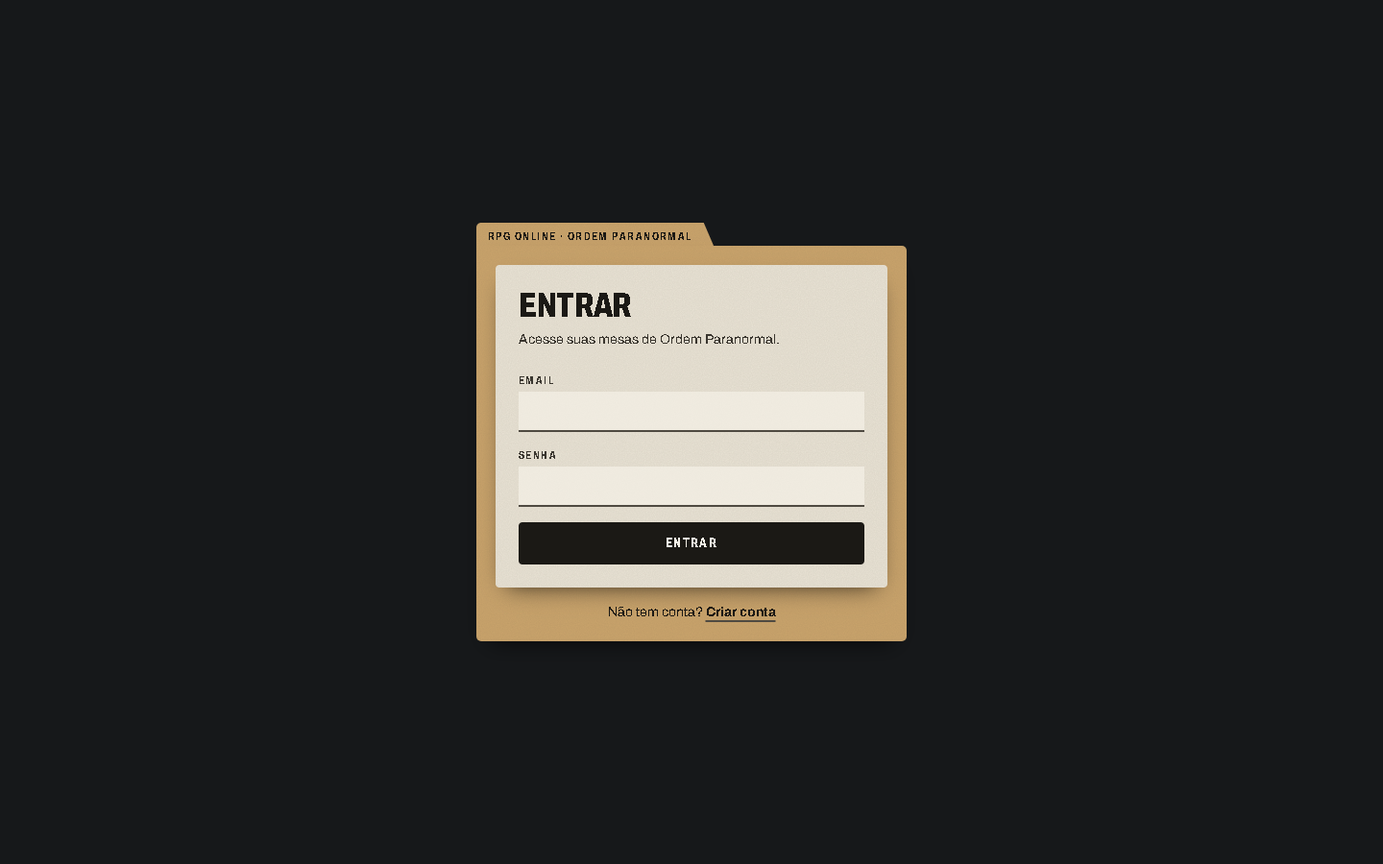
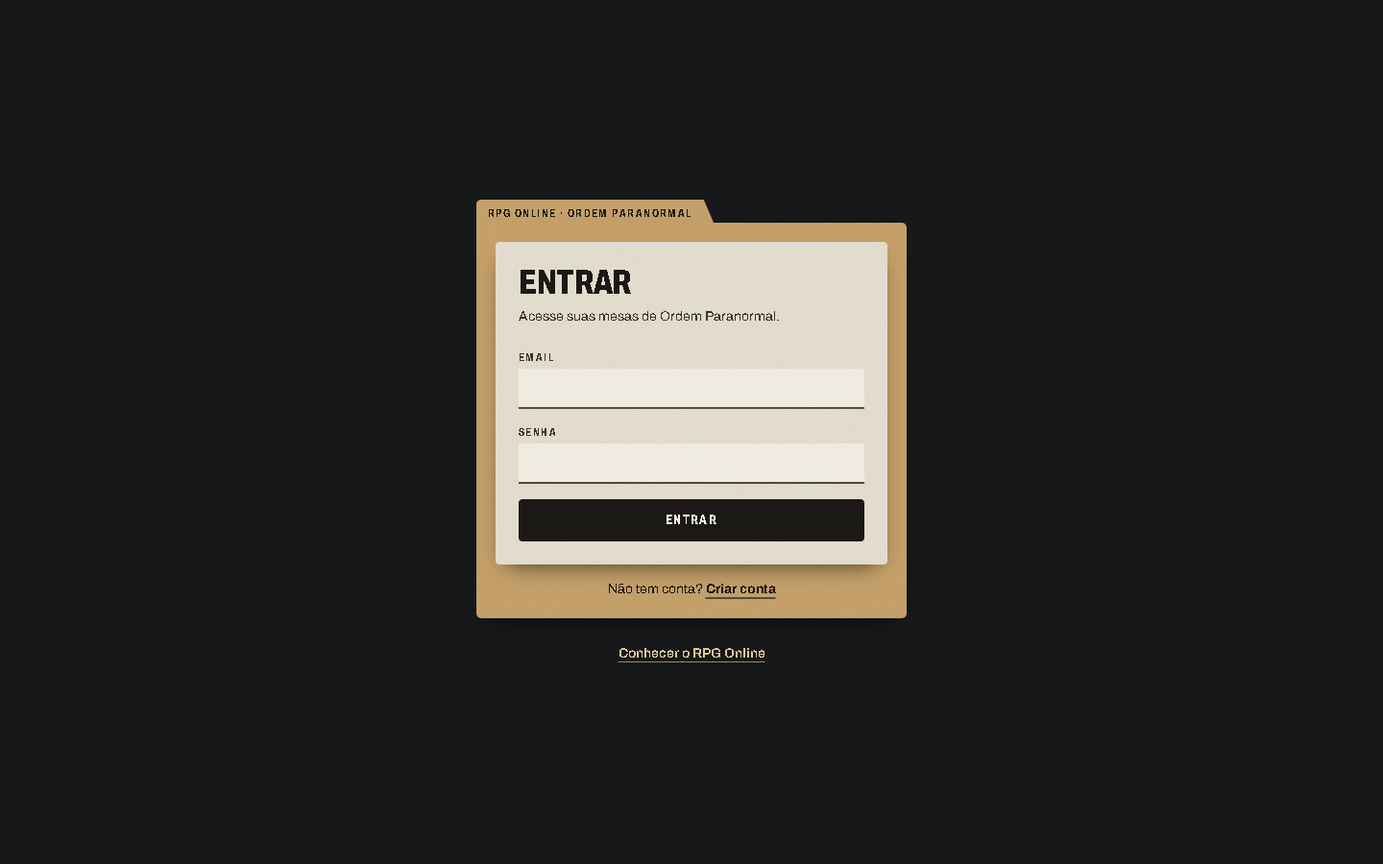
docs: Licença da Comunidade de OP, DESIGN.md atualizado e capturas sem nomes do cânone

diff --git a/DESIGN.md b/DESIGN.md
@@ -1,6 +1,6 @@
 ---
 name: RPG Online
-description: Mesa de RPG online para Ordem Paranormal; telas de entrada no mundo "Dossiê de caso".
+description: Mesa de RPG online para Ordem Paranormal; telas de entrada, casca da mesa e apresentação no mundo "Dossiê de caso".
 colors:
   arquivo-950: "#0e0f10"
   arquivo-900: "#16181a"
@@ -28,7 +28,15 @@ colors:
   carimbo-600: "#c2352b"
   carimbo-300: "#ec8a80"
   carimbo-100: "#f6dcd6"
+  sinal-vivo: "#6fae7c"
 typography:
+  display-capa:
+    fontFamily: "Archivo, ui-sans-serif, system-ui, sans-serif"
+    fontSize: "6rem"
+    fontWeight: 800
+    lineHeight: 0.9
+    letterSpacing: "-0.01em"
+    fontVariation: "'wdth' 72"
   display:
     fontFamily: "Archivo, ui-sans-serif, system-ui, sans-serif"
     fontSize: "3rem"
@@ -77,6 +85,8 @@ spacing:
   folha-interno-sm: "24px"
   campo: "8px"
   secao: "48px"
+  trilho-lateral: "72px"
+  painel-direito: "380px"
 components:
   button-tinta:
     backgroundColor: "{colors.tinta-900}"
@@ -93,6 +103,15 @@ components:
     rounded: "{rounded.folha}"
     padding: "0 20px"
     height: "44px"
+  button-kraft:
+    backgroundColor: "{colors.kraft-400}"
+    textColor: "{colors.tinta-900}"
+    typography: "{typography.label}"
+    rounded: "{rounded.folha}"
+    padding: "0 16px"
+    height: "40px"
+  button-kraft-hover:
+    backgroundColor: "{colors.kraft-300}"
   button-arquivo:
     textColor: "{colors.grafite-100}"
     typography: "{typography.label}"
@@ -101,6 +120,21 @@ components:
     height: "40px"
   button-arquivo-hover:
     textColor: "{colors.kraft-300}"
+  button-icone-arquivo:
+    textColor: "{colors.grafite-100}"
+    rounded: "{rounded.folha}"
+    size: "40px"
+  aba-pasta:
+    textColor: "{colors.grafite-300}"
+    typography: "{typography.label}"
+    padding: "0 16px"
+    height: "36px"
+  aba-pasta-ativa:
+    backgroundColor: "{colors.kraft-500}"
+    textColor: "{colors.tinta-900}"
+    typography: "{typography.label}"
+    padding: "0 16px"
+    height: "36px"
   campo-folha:
     backgroundColor: "{colors.papel-50}"
     textColor: "{colors.tinta-900}"
@@ -123,11 +157,42 @@ components:
     typography: "{typography.title}"
     rounded: "{rounded.etiqueta}"
     padding: "10px 12px"
+  folha-de-pasta:
+    backgroundColor: "{colors.papel-200}"
+    textColor: "{colors.tinta-900}"
+    typography: "{typography.label}"
+    rounded: "{rounded.carimbo}"
+    padding: "0 12px"
+    height: "48px"
+    width: "208px"
+  folha-de-pasta-ativa:
+    backgroundColor: "{colors.papel-50}"
   carimbo:
     textColor: "{colors.carimbo-900}"
     typography: "{typography.label}"
     rounded: "{rounded.carimbo}"
     padding: "2px 8px"
+  carimbo-escuro:
+    textColor: "{colors.carimbo-300}"
+    typography: "{typography.label}"
+    rounded: "{rounded.carimbo}"
+    padding: "2px 8px"
+  etiqueta-turno:
+    backgroundColor: "{colors.papel-50}"
+    textColor: "{colors.tinta-900}"
+    rounded: "{rounded.etiqueta}"
+    padding: "6px 12px"
+  foto-participante:
+    backgroundColor: "{colors.arquivo-800}"
+    textColor: "{colors.grafite-100}"
+    rounded: "{rounded.etiqueta}"
+    width: "128px"
+    height: "72px"
+  tag-mestre:
+    backgroundColor: "{colors.kraft-500}"
+    textColor: "{colors.tinta-900}"
+    typography: "{typography.label}"
+    padding: "0 6px"
   placa-gaveta:
     backgroundColor: "{colors.papel-100}"
     textColor: "{colors.tinta-900}"
@@ -138,7 +203,7 @@ components:
 
 # Design System: RPG Online
 
-> **Escopo atual.** O mundo "Dossiê de caso" vale hoje **só nas telas de entrada**: login, cadastro, lista de mesas, convite, 404 e a checagem de sessão (`RotaProtegida`/`RotaPublica`). **A tela de mesa (`/salas/:id`) ainda não migrou**: `pages/Sala` e os componentes de `MapaToken`, `Video`, `TurnoTracker`, `FichaOrdemParanormal` e `Chat` continuam no visual antigo zinc/violeta do Tailwind (`ui/estilos.ts`), que **não** é o sistema e não deve ser copiado para telas novas. A migração da mesa é uma etapa posterior; até lá, o `body` global continua em zinc e cada tela do arquivo se envolve em `.mundo-arquivo`.
+> **Escopo atual.** O mundo "Dossiê de caso" vale em três frentes: (1) as **telas de entrada** — login, cadastro, lista de mesas, convite, 404 e a checagem de sessão (`RotaProtegida`/`RotaPublica`); (2) a **casca da mesa** em `/salas/:id` — header, régua inferior (fotos de vídeo + turno), trilho esquerdo do mestre e moldura do painel direito com abas de pasta, modal de iniciar combate, folha de rolagem, folha do convite e o diálogo de confirmação; (3) a **apresentação pública** (`/` para visitantes, `/sobre`). **Ainda não migrou** e continua no visual antigo zinc/violeta (`ui/estilos.ts`), que **não** é o sistema e não deve ser copiado: o conteúdo da ficha dentro do painel (`components/FichaOrdemParanormal`), a área do mapa e sua toolbar (`components/MapaToken`, incluindo `GerenciarMapas`) e o chat (`components/Chat`). O `body` global continua em zinc; cada tela do mundo se envolve em `.mundo-arquivo`.
 
 ## Overview
 
@@ -146,41 +211,45 @@ components:
 
 Cada mesa é um caso aberto num arquivo de investigação. A interface é um móvel de arquivo escuro, quase preto, onde as mesas são pastas kraft suspensas, com aba de classificação e etiqueta de papel; o que se preenche fica numa folha de papel por cima. A ação é tinta; o estado é carimbo. O mundo recusa o painel de SaaS (grade de cards cinza com botão colorido): nada aqui é "tile", tudo é um objeto de papelaria com material, fibra e peso.
 
-A densidade é baixa e a hierarquia é tipográfica: títulos grandes em Archivo condensado e caixa alta, etiquetas espaçadas, e o que é registro (valores digitados, datas) sai datilografado em Courier Prime. O material aparece por uma fibra de ruído muito fraca no papel e no kraft e por sombras difusas sob as pastas e folhas, nunca por brilho, gradiente ou vidro.
+Na mesa, o móvel continua: o header é a borda da gaveta com o nome da mesa numa etiqueta de papel; a régua inferior junta as fotos impressas dos participantes e a etiqueta de quem tem a vez; as laterais são pastas em pé das quais as folhas deslizam; modais e popovers são folhas de papel postas sobre o arquivo. Na apresentação, a prova é a própria mesa: capturas reais montadas em folhas como recortes de dossiê, cada uma com o carimbo da etapa.
 
-É uma ferramenta de fã sem vínculo oficial: o mundo evoca o arquivo de investigação sem usar nenhum sigilo, símbolo, logo ou arte da Ordem Paranormal oficial.
+A densidade é baixa e a hierarquia é tipográfica: títulos grandes em Archivo condensado e caixa alta, etiquetas espaçadas, e o que é registro (valores digitados, datas, iniciativa) sai datilografado em Courier Prime. O material aparece por uma fibra de ruído muito fraca no papel e no kraft e por sombras difusas sob as peças, nunca por brilho ou vidro. É uma ferramenta de fã sem vínculo oficial: o mundo evoca o arquivo de investigação sem nenhum sigilo, símbolo, logo ou arte da Ordem Paranormal oficial.
 
 **Key Characteristics:**
 - Fundo de arquivo escuro, pastas kraft, folhas de papel, tinta quase preta e vermelho de carimbo.
 - Archivo com eixo de largura: condensado (72%) em títulos, rótulos, botões e abas.
-- Courier Prime só no que é datilografado: valores digitados e datas.
-- Vermelho de carimbo só para estado, nunca para ação.
-- Movimento único: a pasta sobe um pouco da gaveta no hover/foco.
+- Courier Prime só no que é datilografado: valores digitados, datas e números de registro.
+- Vermelho de carimbo só para estado e classificação, nunca para ação.
+- Ação principal: tinta chapada numa folha, kraft chapado sobre o arquivo escuro.
+- Movimento de papelaria: a pasta sobe da gaveta e a folha desliza da pasta, os dois desligados com `prefers-reduced-motion`.
 
 ## Colors
 
-Uma paleta de papelaria sobre metal escuro: neutros quentes de papel e kraft, uma tinta quase preta que faz o papel da cor primária, e um único vermelho reservado para estado.
+Uma paleta de papelaria sobre metal escuro: neutros quentes de papel e kraft, uma tinta quase preta que faz o papel da cor primária, um único vermelho reservado para estado e uma só luz verde de equipamento.
 
 ### Primary
-- **Tinta de Escritório** (tinta-900): a cor da ação. Preenchimento do botão principal numa folha, contorno do secundário, texto sobre papel e kraft, linha de preenchimento focada, cursor de texto, seta do select. Tons de apoio: **Tinta Gasta** (tinta-700) no hover do botão, em rótulos e textos de ajuda; **Tinta Rala** (tinta-600) na linha do campo em repouso e nos placeholders.
+- **Tinta de Escritório** (tinta-900): a cor da ação numa folha. Preenchimento do botão principal, contorno do secundário, texto sobre papel e kraft, linha de preenchimento focada, cursor de texto, seta do select, marca do checkbox. Tons de apoio: **Tinta Gasta** (tinta-700) no hover do botão, em rótulos e textos de ajuda; **Tinta Rala** (tinta-600) na linha do campo em repouso e nos placeholders.
 
 ### Secondary
-- **Kraft de Pasta** (kraft-500): o corpo e a aba das pastas das mesas e da pasta aberta do login. Não é cor de ação: é material. **Kraft Claro** (kraft-300/400) é o destaque sobre o arquivo escuro: links, hover do botão do arquivo, anel de foco das pastas, seleção de texto. **Kraft Queimado** (kraft-700) desenha o contorno tracejado da pasta vazia; kraft-600 é o sublinhado dos links.
+- **Kraft de Pasta** (kraft-500): o corpo e a aba das pastas, a aba de pasta ativa do painel e a tag "Mestre" nas fotos. É material. **Kraft Claro** (kraft-300/400) é o destaque sobre o arquivo escuro: fundo do botão kraft (a ação principal no escuro), links, hover do botão do arquivo, anel de foco, seleção de texto. **Kraft Queimado** (kraft-700) desenha a pasta vazia tracejada, a borda dos itens da fila de iniciativa e a faixa de aviso de largura mínima da mesa; kraft-600 é o sublinhado dos links e o corpo da pasta em pé nas laterais.
 
 ### Tertiary
-- **Tinta de Carimbo** (carimbo-900): o carimbo de estado (papel na mesa, "Sem acesso", "Não arquivado"), com borda dupla e falhas de entintamento. Sobre kraft dá cerca de 4,9:1; sobre papel, cerca de 8,9:1. **Carimbo Vivo** (carimbo-800) é o texto e a borda do alerta de erro numa folha, sobre **Rosa de Borrão** (carimbo-100). No arquivo escuro, o alerta usa carimbo-800 translúcido com texto carimbo-100 e borda carimbo-300. carimbo-600 existe na escala mas não é usado como texto.
+- **Tinta de Carimbo** (carimbo-900): o carimbo sobre papel e kraft (papel na mesa, "Sua vez", "Sem acesso", "Não arquivado", o carimbo de etapa da apresentação), com borda dupla e falhas de entintamento. **Carimbo Desbotado** (carimbo-300) é o carimbo e o texto de erro sobre o arquivo escuro, onde a tinta escura sumiria. **Carimbo Vivo** (carimbo-800) é o texto e a borda do alerta numa folha, sobre **Rosa de Borrão** (carimbo-100); no escuro, o alerta e o aviso de sessão reiniciada usam carimbo-800 translúcido com texto carimbo-100. carimbo-600 existe na escala mas não é usado.
+- **Luz de Sinal** (sinal-vivo): só o ponto de conexão "Ao vivo" no header. É a única cor fora da papelaria: luz de equipamento, não tinta.
 
 ### Neutral
-- **Gaveta de Arquivo** (arquivo-900): o fundo de todas as telas do mundo. arquivo-950 no header translúcido; arquivo-700 nos divisores; arquivo-600 na placa de metal, na borda do botão do arquivo e na barra de rolagem. arquivo-850/800 ficam na escala para superfícies intermediárias.
-- **Grafite Claro** (grafite-100): texto principal sobre o arquivo escuro. **Grafite Médio** (grafite-300) para texto secundário (nome do usuário, contagem de mesas, carregando). grafite-400 fica para texto terciário.
-- **Papel de Folha** (papel-100): as folhas de formulário e a placa da gaveta. **Papel Novo** (papel-50) nas etiquetas das pastas, no fundo do campo (70% em repouso, cheio no foco) e no texto do botão de tinta. papel-200/300 ficam na escala.
+- **Gaveta de Arquivo** (arquivo-900): o fundo de todas as telas do mundo e dos trilhos laterais da mesa. **Gaveta Funda** (arquivo-950) no header e na régua da mesa, no header e nas faixas da apresentação e no véu dos diálogos. arquivo-850 no painel direito e na faixa do aviso de câmera; arquivo-800 no fundo das fotos sem vídeo e no hover das abas; arquivo-700 nos divisores; arquivo-600 na placa, na borda dos botões do arquivo e na barra de rolagem.
+- **Grafite Claro** (grafite-100): texto principal sobre o arquivo escuro. **Grafite Médio** (grafite-300) para texto secundário e abas inativas. grafite-400 para o ponto "Conectando..." e texto terciário.
+- **Papel de Folha** (papel-100): as folhas, a placa e a borda das fotos impressas. **Papel Novo** (papel-50) nas etiquetas (pasta, nome da mesa no header, etiqueta do turno), na folha ativa da pasta em pé e no fundo do campo. **Papel Envelhecido** (papel-200) nas folhas em repouso da pasta em pé; papel-300 nos divisores dentro de uma folha.
 
 ### Named Rules
-**The Carimbo é Estado Rule.** O vermelho de carimbo marca só estado: o papel da pessoa numa mesa, erro, acesso negado. Nunca pinta botão, link, cursor, foco ou qualquer ação.
+**The Carimbo é Estado Rule.** O vermelho de carimbo marca só estado ou classificação de arquivo: o papel da pessoa, a vez no turno, erro, acesso negado, a etapa de um recorte. Nunca pinta botão, link, cursor, foco ou qualquer ação.
 
-**The Tinta Age Rule.** Numa folha, quem age é a tinta: ação principal em tinta chapada (tinta-900), secundária em contorno de tinta. Sobre o arquivo escuro, a ação é borda grafite que esquenta para kraft no hover.
+**The Tinta Age Rule.** Numa folha, quem age é a tinta: ação principal em tinta chapada, secundária em contorno de tinta. Sobre o arquivo escuro, a ação principal é kraft chapado com texto em tinta (uma por área) e as demais são borda grafite que esquenta para kraft no hover.
 
-**The Carimbo Legível Rule.** Carimbo usa sempre carimbo-900 (≥ 4,5:1 sobre kraft e papel). Os tons mais claros da escala não servem de texto de carimbo.
+**The Carimbo Legível Rule.** Sobre papel e kraft o carimbo usa carimbo-900 (≥ 4,5:1); sobre o arquivo escuro, carimbo-300 (≈ 7:1 sobre arquivo-900). Nenhum outro tom da escala serve de texto de carimbo.
+
+**The Luz de Equipamento Rule.** sinal-vivo é o único verde e só acende no indicador de conexão. Não vira cor de sucesso, botão ou destaque.
 
 ## Typography
 
@@ -191,92 +260,124 @@ Uma paleta de papelaria sobre metal escuro: neutros quentes de papel e kraft, um
 **Character:** Archivo condensado dá a voz de etiqueta e cabeçalho de dossiê, apertada e em caixa alta; Courier Prime é a máquina de escrever que preenche o formulário. Os números são tabulares em todo o mundo (`font-variant-numeric: tabular-nums`).
 
 ### Hierarchy
-- **Display** (800, 3rem → 3.75rem a partir de 640px, line-height 1, tracking -0.01em, caixa alta, condensado): o título da tela ("Suas mesas").
-- **Headline** (800, 1.875rem, line-height 1, caixa alta, condensado): título de folha ("Criar mesa", "Entrar com convite", 404, convite). O título do login/cadastro sobe para 2.25rem.
-- **Title** (700, 1.25rem, line-height 1.25, condensado): o nome da mesa na etiqueta da pasta; quebra palavra em nomes longos (~60 caracteres).
-- **Body** (400, 0.875rem): subtítulos, ajuda de campo (0.75rem), contagem, texto de estado vazio.
-- **Label** (700, 0.75rem, tracking 0.12em, caixa alta, condensado): rótulos de campo e abas de pasta. Botões usam o mesmo desenho em 0.875rem e tracking 0.1em; a placa da gaveta, 0.875rem com tracking 0.16em.
-- **Datilo** (Courier Prime 400, 1rem nos campos, 0.875rem nas datas): o valor digitado em campo e select escolhido, e a linha de registro da pasta ("Aberta em 28/09/2026").
+- **Display Capa** (800, 3.75rem → 6rem a partir de 640px, line-height 0.9, caixa alta, condensado): só o título da capa da apresentação.
+- **Display** (800, 3rem → 3.75rem a partir de 640px, line-height 1, caixa alta, condensado): título de tela ("Suas mesas") e títulos de seção da apresentação (2.25rem → 3.75rem).
+- **Headline** (800, 1.875rem, line-height 1, caixa alta, condensado): título de folha ("Criar mesa", "Iniciar combate", 404, convite); 1.5rem no diálogo de confirmação, 2.25rem no login/cadastro.
+- **Title** (700–800, 1.25rem, line-height 1.25, condensado): nome da mesa na etiqueta da pasta e no header (1.125rem), nome de quem tem a vez na etiqueta do turno.
+- **Body** (400, 0.875rem): subtítulos, ajuda de campo (0.75rem), estados vazios. Na apresentação, texto corrido em 1rem–1.125rem com entrelinha folgada (1.625) e medida de até 65ch.
+- **Label** (700, 0.75rem, tracking 0.12em, caixa alta, condensado): rótulos de campo, abas, folhas da pasta em pé (0.875rem), "Rodada N · vez de". Botões usam o mesmo desenho em 0.875rem e tracking 0.1em; a placa, 0.875rem com tracking 0.16em.
+- **Datilo** (Courier Prime 400, 1rem nos campos, 0.875rem nas datas, 0.75rem na iniciativa): valor digitado, select escolhido, data de registro e o número de iniciativa.
 
 ### Named Rules
-**The Datilografado Rule.** Courier Prime só no que é datilografado: valores que a pessoa digitou e datas de registro. Instrução, rótulo, placeholder, select sem escolha e mensagem vão em Archivo.
+**The Datilografado Rule.** Courier Prime só no que é datilografado: valores que a pessoa digitou e números de registro (datas, iniciativa). Instrução, rótulo, placeholder, select sem escolha e mensagem vão em Archivo.
 
 **The Condensado Rule.** Largura 72% é para títulos, rótulos, botões, abas e etiquetas. Texto corrido fica em largura normal.
 
 ## Layout
 
-Mobile-first nas telas de entrada; 375px sem rolagem horizontal. Conteúdo em coluna central de até 64rem (lista) ou 28rem (login, cadastro, convite, 404), com respiro lateral de 16px. Header da lista em faixa fina: placa da gaveta à esquerda, nome e Sair à direita.
+**Telas de entrada:** mobile-first, 375px sem rolagem horizontal. Coluna central de até 64rem (lista) ou 28rem (login, cadastro, convite, 404), respiro lateral de 16px. As pastas formam uma grade de 1 coluna, 2 a partir de 640px e 3 a partir de 1024px, com 20px entre colunas e 32px entre linhas; abaixo, as duas folhas de formulário lado a lado a partir de 768px. Seções a 48px; dentro das peças, pasta 16px, folha 20px (24px a partir de 640px), campos a 16px. Telas de passagem são uma pasta aberta centralizada com a folha por cima.
 
-As pastas das mesas formam uma grade de 1 coluna no celular, 2 a partir de 640px e 3 a partir de 1024px, com 20px entre colunas e 32px entre linhas (a aba precisa de ar). Abaixo, as duas folhas de formulário ficam lado a lado a partir de 768px, alinhadas pelo topo. Seções separadas por 48px; título da tela a 32px das pastas. Dentro das peças: pasta com 16px, folha com 20px (24px a partir de 640px), campos empilhados a 16px.
+**Casca da mesa:** desktop-first, largura mínima de 1280px; abaixo de 1280px aparece uma faixa kraft-700 avisando e a mesa rola para o lado. Header de 56px; abaixo, da esquerda para a direita: o trilho do mestre (72px, só quando há mais de uma vista), a coluna central (mapa em cima, régua de 96px embaixo) e o painel direito de 380px — ou, recolhido, um trilho de 72px com as folhas Ficha e Chat. A régua divide-se em fotos à esquerda (até 45% da largura, 30% em combate, rolando para o lado) e turno à direita. Avisos (sessão reiniciada, câmera) entram como faixas finas entre o mapa e a régua.
 
-Telas de passagem (login, cadastro, convite, 404, checagem de sessão) são uma pasta aberta centralizada vertical e horizontalmente, com a folha por cima.
+**Apresentação:** coluna de até 72rem com respiro de 16px e header fixo. Capa com ao menos 92% da altura da tela, texto ancorado à esquerda em até 36rem. As etapas alternam texto (5 colunas) e recorte (7 colunas; 4 para capturas estreitas) numa grade de 12 a partir de 768px, com 96–128px entre etapas. Seções com 80–112px de respiro vertical; título de seção a 48px do conteúdo.
 
 ## Elevation & Depth
 
-Profundidade por material e sombra difusa, sem brilho. Pastas e folhas pousam sobre o arquivo com sombras largas, negativas no espalhamento e escuras, como papel sobre metal; a etiqueta da pasta tem uma sombra de contato mínima. A fibra (ruído SVG a ~9% de opacidade) no papel, no kraft e na placa é o que impede o material de parecer plástico. A placa da gaveta é uma moldura plana de metal, sem bisel.
+Profundidade por material e sombra difusa, sem brilho. Pastas, folhas e fotos pousam sobre o arquivo com sombras largas, negativas no espalhamento e escuras, como papel sobre metal; etiquetas têm sombra de contato mínima. A fibra (ruído SVG a ~9% de opacidade) no papel, no kraft e na placa impede o material de parecer plástico. A placa é uma moldura plana de metal, sem bisel. Diálogos são folhas sobre um véu de arquivo-950 a 75%. Gradiente só aparece como função: o véu de legibilidade sobre a foto da capa e a máscara que esvai a fila de iniciativa quando ela transborda.
 
 ### Shadow Vocabulary
 - **Pasta pousada** (`box-shadow: 0 12px 24px -14px rgb(0 0 0 / 0.9)`): corpo da pasta kraft.
-- **Folha pousada** (`box-shadow: 0 10px 24px -12px rgb(0 0 0 / 0.8)`): folhas de formulário.
-- **Etiqueta colada** (`box-shadow: 0 1px 2px rgb(0 0 0 / 0.25)`): etiqueta de papel com o nome da mesa.
+- **Folha pousada** (`box-shadow: 0 10px 24px -12px rgb(0 0 0 / 0.8)`): folhas, diálogos e popovers.
+- **Foto impressa** (`box-shadow: 0 6px 12px -8px rgb(0 0 0 / 0.9)`): fotos dos participantes na régua.
+- **Folha saindo** (`box-shadow: 0 4px 10px -6px rgb(0 0 0 / 0.9)`): folhas da pasta em pé e o remendo de papel do carimbo de etapa.
+- **Pasta em pé** (`box-shadow: 0 0 14px -2px rgb(0 0 0 / 0.8)`): corpo kraft-600 das laterais da mesa, que fica na frente das folhas.
+- **Etiqueta colada** (`box-shadow: 0 1px 2px rgb(0 0 0 / 0.25)`): etiquetas de papel (pasta, turno).
 
 ### Named Rules
-**The Gaveta Rule.** O único movimento do mundo é a pasta subir 4px da gaveta no hover e no foco (180ms, `cubic-bezier(0.16, 1, 0.3, 1)`). Com `prefers-reduced-motion`, a pasta não se desloca.
+**The Gaveta Rule.** O movimento do mundo é de papelaria e curto: a pasta sobe 4px da gaveta no hover e no foco (180ms), e a folha da pasta em pé desliza 136px para fora no hover e no foco (200ms), as duas com `cubic-bezier(0.16, 1, 0.3, 1)`. A folha ativa fica 8px para fora em repouso. Com `prefers-reduced-motion`, nada se desloca com transição. Fora disso, só o ponto de conexão pulsa enquanto reconecta (sinal de estado, também desligado com menos movimento).
 
 ## Shapes
 
-Cantos quase retos, de papelaria: campo sem raio nenhum (é uma linha de preenchimento), etiqueta 2px, carimbo e placa 3px, folha e botão 4px, pasta 5px. A silhueta que define o mundo é a **aba da pasta suspensa**: uma lingueta no topo esquerdo, com o ombro direito cortado em diagonal de 12px, colada ao corpo da pasta, que por isso não tem raio no canto superior esquerdo. O carimbo é a única peça torta (−4°), com borda dupla de 3px e máscara de ruído que simula falha de tinta. Sem pílulas, sem círculos, sem cantos generosos.
+Cantos quase retos, de papelaria: campo sem raio (é uma linha de preenchimento), etiqueta e foto 2px, carimbo, placa e folha da pasta em pé 3px, folha e botão 4px, pasta 5px. A silhueta que define o mundo é a **aba da pasta suspensa**: uma lingueta no topo esquerdo, com o ombro direito cortado em diagonal de 12px, colada ao corpo, que por isso não tem raio no canto superior esquerdo. As abas do painel são a mesma aba em fileira (topo com 5px), apoiadas numa linha kraft de 2px. As fotos dos participantes têm borda de papel de 3px, como uma foto impressa. O carimbo é a única peça torta (−4°), com borda dupla de 3px e máscara de falha de tinta. Sem pílulas e sem cantos generosos; o único círculo é o ponto de conexão (8px), que é uma luz, não uma peça de papel.
 
 ## Components
 
 ### Buttons
 Firmes e impressos, em caixa alta condensada.
-- **Shape:** cantos de 4px, altura mínima de 44px (alvo de toque), 20px de respiro lateral.
+- **Shape:** cantos de 4px, altura mínima de 44px nas folhas e 40px na mesa, 20px de respiro lateral (16px no kraft, 12px no do arquivo).
 - **Tinta (primário numa folha):** tinta-900 chapada, texto papel-50; hover em tinta-700. Um por folha.
-- **Contorno (secundário numa folha):** borda de 2px em tinta-900, texto tinta-900; hover com véu de tinta a 10%.
-- **Arquivo (sobre o fundo escuro, ex.: Sair):** borda de 1px arquivo-600, texto grafite-100, altura 40px; hover leva borda e texto ao kraft.
-- **Focus:** contorno de 2px afastado 2px, em tinta-900 no papel e kraft-400 no arquivo.
-- **Envio:** o rótulo troca para o gerúndio ("Criando...", "Entrando...") e o spinner só aparece após 300ms; desabilitado cai para 60% de opacidade.
+- **Contorno (secundário numa folha):** borda de 2px em tinta-900; hover com véu de tinta a 10%.
+- **Kraft (primário sobre o arquivo):** kraft-400 chapado, texto tinta-900, hover kraft-300. Ex.: "Encerrar turno", "Criar conta" na capa (48px de altura e 1rem na capa).
+- **Arquivo (secundário sobre o escuro):** borda de 1px arquivo-600, texto grafite-100; hover leva borda e texto ao kraft. Ex.: Sair, Câmera, Rolagem, Finalizar, Copiar convite.
+- **Ícone do arquivo:** quadrado de 40px com o mesmo contorno, sempre com `aria-label`; ligado (`aria-pressed`) fica em kraft.
+- **Focus:** contorno de 2px afastado 2px, em tinta-900 no papel e kraft-300/400 no escuro.
+- **Envio:** o rótulo troca para o gerúndio ou para o resultado ("Link copiado!"), o spinner só aparece após 300ms; desabilitado a 60%.
+
+### Abas de pasta
+Fileira de abas com o padrão de teclado do WAI-ARIA (setas, Home/End, só a ativa no Tab). Aba ativa em kraft-500 com fibra e texto em tinta; inativa em grafite-300, com hover arquivo-800. Ficam sobre uma linha kraft-500 de 2px, como as abas de uma pasta aberta. Foco com contorno kraft-300 por dentro.
+
+### Pasta de folhas (Signature Component)
+As laterais da mesa são uma pasta em pé: trilho de 72px, corpo kraft-600 de 32px com vinco e, saindo da boca, folhas de 208×48px. Em repouso só a ponta com o ícone aparece; no hover ou foco a folha inteira (o botão todo, não só o desenho) desliza e mostra o nome. Folha ativa em papel-50, 8px para fora; demais em papel-200, papel-100 no hover. À esquerda é navegação entre vistas do mestre (`nav`, `aria-current`); à direita, atalhos do painel recolhido.
 
 ### Cards / Containers
-- **Pasta** (a mesa): corpo kraft-500 com aba de classificação (o sistema da mesa), etiqueta de papel papel-50 com o nome, linha datilografada com data e "Criada por você", e o carimbo do papel no canto inferior direito. O link inteiro é a pasta; foco com anel kraft-300 afastado 4px.
-- **Folha:** papel-100 com fibra, cantos de 4px, sombra de folha pousada, 20/24px de respiro. Contém formulários e mensagens de passagem.
-- **Pasta vazia:** o contorno tracejado (2px, kraft-700) de uma pasta com aba, no mesmo desenho das cheias, com a mensagem de gaveta vazia dentro.
+- **Pasta** (a mesa): corpo kraft-500 com aba de classificação (o sistema), etiqueta papel-50 com o nome, linha datilografada com a data e o carimbo do papel no canto inferior direito. O link inteiro é a pasta; foco com anel kraft-300 afastado 4px.
+- **Folha:** papel-100 com fibra, 4px, sombra de folha pousada, 20/24px de respiro (16px em popovers).
+- **Pasta vazia:** contorno tracejado (2px, kraft-700) de uma pasta com aba, com a mensagem de gaveta vazia dentro.
+
+### Diálogo e confirmação
+Modal é um `<dialog>` nativo: prende o foco, fecha com Esc e com clique no véu, devolve o foco. O conteúdo é uma Folha de até 28rem. Toda ação destrutiva passa pela confirmação (título headline, mensagem em tinta-700, "Cancelar" em contorno com o foco inicial e a ação em tinta), nunca pelo `window.confirm`. Popovers ancorados (rolagem acima da régua, convite abaixo do header) são folhas de 20rem; a da rolagem fecha com Esc.
 
 ### Inputs / Fields
-- **Style:** linha de preenchimento: sem raio, sem bordas laterais, só a linha inferior de 2px em tinta-600 sobre papel-50 a 70%. O valor sai em Courier Prime; o placeholder, em Archivo menor e tinta-600.
-- **Focus:** linha em tinta-900, fundo papel-50 cheio e contorno de foco de 2px em tinta-900.
+- **Style:** linha de preenchimento: sem raio, só a linha inferior de 2px em tinta-600 sobre papel-50 a 70%. O valor sai em Courier Prime; o placeholder, em Archivo menor e tinta-600.
+- **Focus:** linha em tinta-900, fundo papel-50 cheio e contorno de 2px em tinta-900.
 - **Select:** mesma linha, seta desenhada em tinta; sem escolha, o texto é instrução em Archivo; escolhido, vira datilografado.
+- **Checkbox:** nativo, 20px, marcado em tinta-900.
 - **Rótulo:** Label condensado em tinta-700, acima do campo.
-- **Error / Disabled:** erro vai num alerta abaixo dos campos (ver Alerta); desabilitado a 60%.
+- **Error / Disabled:** erro num alerta abaixo dos campos; desabilitado a 60% (40% para a iniciativa de quem não participa).
 
 ### Alerta
-Três tons conforme o chão: **papel** (dentro de uma folha: borda 2px carimbo-800 sobre carimbo-100), **arquivo** (sobre o fundo escuro: carimbo-800 a 25% com borda carimbo-300 a 50% e texto carimbo-100) e **mesa** (o tom zinc/vermelho antigo, só para a mesa ainda não migrada). "Tentar novamente" usa o botão secundário do chão correspondente.
+Três tons conforme o chão: **papel** (dentro de uma folha: borda 2px carimbo-800 sobre carimbo-100), **arquivo** (sobre o escuro: carimbo-800 a 25%, borda carimbo-300 a 50%, texto carimbo-100; também a faixa de "Sessão reiniciada") e **mesa** (o tom zinc/vermelho antigo, só para as partes ainda não migradas). "Tentar novamente" usa o botão secundário do chão correspondente.
 
 ### Carimbo (Signature Component)
-Marca de estado em tinta de carimbo: caixa alta condensada, borda dupla de 3px em carimbo-900, rotação de −4°, máscara de ruído de entintamento. Usos atuais: papel na mesa ("Mestre"/"Jogador"), "Sem acesso" no convite inválido, "Não arquivado" no 404.
+Marca de estado em tinta de carimbo: caixa alta condensada, borda dupla de 3px, −4°, máscara de falha de entintamento. Tom **papel** (carimbo-900) sobre papel e kraft; tom **escuro** (carimbo-300) quando cair direto no arquivo. Usos: papel na mesa, "Sua vez" na etiqueta do turno, "Sem acesso", "Não arquivado" e a etapa de cada recorte da apresentação (sobre um remendo de papel-100 no canto).
+
+### Régua da mesa
+- **Foto do participante:** 128×72px, borda de papel-100 de 3px como foto impressa, sombra de foto. Sem vídeo, mostra a inicial condensada em grafite-300 e uma legenda de estado; o nome corre numa faixa arquivo-950 a 80% no pé, com o ícone do microfone. "Mestre" é uma tag kraft-500 reta no canto superior esquerdo, não um carimbo. Fora da mesa, a foto cai para 50%. "Reconectar" é um botãozinho kraft dentro da foto.
+- **Etiqueta do turno:** etiqueta papel-50 colada: "Rodada N · vez de" em label, o nome em title, "iniciativa N" datilografado e, se é a vez de quem olha, o carimbo "Sua vez". Ao lado, a fila dos próximos em etiquetas contornadas de kraft-700 com a iniciativa datilografada, esvaindo à direita. Depois, "Encerrar turno" em kraft, "Finalizar" (só mestre, com confirmação) e "Rolagem".
+- **Indicador de conexão:** ponto de 8px (grafite-400 conectando, sinal-vivo ao vivo, kraft-400 pulsando ao reconectar) com o texto em grafite-300.
 
 ### Placa da gaveta (Signature Component)
-A identificação do produto: etiqueta de papel papel-100 com fibra, em caixa alta condensada (tracking 0.16em), numa moldura plana de metal arquivo-600 de 3px. É o único "logo"; o nome é provisório e não deve virar identidade.
+A identificação do produto: etiqueta papel-100 com fibra, caixa alta condensada (tracking 0.16em), numa moldura plana de metal arquivo-600 de 3px. É o único "logo"; o nome é provisório e não deve virar identidade. Na mesa, o lugar dela é ocupado pela etiqueta com o nome da mesa.
+
+### Apresentação
+- **Capa:** captura real da mesa em uso cobrindo a tela, sob um véu de arquivo-950 que vai de opaco à esquerda (onde está o texto) a 40% à direita; no celular, véu uniforme a 85%. Um esvair inferior leva a foto ao fundo da página.
+- **Recorte:** captura com dados inventados montada numa Folha (12–16px de margem de papel), cantos de 2px e sombra de contato, com o carimbo da etapa num remendo de papel no canto superior direito.
+- **Aviso e selo da licença:** o aviso literal da Licença da Comunidade em grafite-100 no rodapé, seguido de "sem vínculo" e dos direitos; o selo fica na capa (≥ 10% da largura, opacidade plena) e no rodapé. Até o arquivo oficial chegar, o selo é um espaço reservado tracejado em kraft-600 — é marcador, não o desenho do selo.
 
 ### Navigation
-Não há navegação própria nas telas de entrada além do header da lista (placa, nome, Sair) e dos links entre login e cadastro. Links sobre papel: tinta-900 em negrito com sublinhado de 2px; sobre o arquivo: kraft-300 com sublinhado kraft-600.
+Nas telas de entrada, só o header da lista (placa, nome, Sair) e os links entre login e cadastro. Na mesa, o header leva "← Mesas", a etiqueta com o nome da mesa, o sistema em label grafite-300, a conexão, o convite (só o dono), o nome e Sair; as vistas do mestre ficam na pasta de folhas esquerda. Na apresentação, header fixo com a placa, "Como funciona" e Entrar. Links sobre papel: tinta-900 em negrito com sublinhado de 2px; sobre o arquivo: kraft-300 com sublinhado kraft-600.
 
 ## Do's and Don'ts
 
 ### Do:
 - **Do** envolver toda tela do mundo em `.mundo-arquivo` (fundo arquivo-900, texto grafite-100, Archivo, números tabulares).
-- **Do** usar tinta chapada (tinta-900) para a ação principal de uma folha e contorno de tinta para a secundária.
-- **Do** usar carimbo-900 para o carimbo de estado (≈ 4,9:1 sobre kraft-500).
+- **Do** usar tinta chapada para a ação principal de uma folha e kraft chapado (kraft-400, texto tinta-900) para a ação principal sobre o arquivo escuro.
+- **Do** usar carimbo-900 para carimbo sobre papel e kraft e carimbo-300 para carimbo sobre o arquivo escuro.
 - **Do** escrever títulos, rótulos, botões e abas em Archivo condensado (72%) e caixa alta.
-- **Do** reservar Courier Prime para valores digitados e datas de registro.
-- **Do** manter o único movimento na pasta que sobe 4px, respeitando `prefers-reduced-motion`.
-- **Do** manter botões e alvos com pelo menos 44px de altura nas folhas.
+- **Do** reservar Courier Prime para valores digitados e números de registro (datas, iniciativa).
+- **Do** limitar o movimento à pasta que sobe 4px e à folha que desliza da pasta, ambos com `cubic-bezier(0.16, 1, 0.3, 1)` e desligados com `prefers-reduced-motion`.
+- **Do** passar toda ação destrutiva pelo diálogo de confirmação, com foco inicial em "Cancelar".
+- **Do** usar o `<dialog>` nativo para modais e as abas com teclado WAI-ARIA para listas de abas.
+- **Do** mostrar o produto com capturas reais e dados inventados, montadas em folhas; nada de nomes do cânone.
+- **Do** manter o aviso literal e o selo da Licença da Comunidade em toda página pública.
+- **Do** manter botões e alvos com pelo menos 44px nas folhas e 40px na mesa.
 
 ### Don't:
 - **Don't** usar vermelho de carimbo em botão, link, cursor, foco ou qualquer ação.
+- **Don't** usar sinal-vivo fora do indicador de conexão.
 - **Don't** usar Courier Prime para instruções, rótulos, placeholders ou mensagens.
 - **Don't** usar sigilos, símbolos, logos, ilustrações ou qualquer arte da Ordem Paranormal oficial; o mundo é arquivo de investigação genérico.
-- **Don't** montar a lista como grade de cards cinza com botão colorido; mesas são pastas.
-- **Don't** copiar o visual zinc/violeta da mesa (`ui/estilos.ts`) para telas novas; ele é legado até a migração.
-- **Don't** adicionar gradientes, brilho, vidro ou bisel; profundidade é sombra difusa e fibra.
+- **Don't** montar listas como grade de cards cinza com botão colorido; mesas são pastas.
+- **Don't** copiar o visual zinc/violeta (`ui/estilos.ts`) da ficha, do mapa e do chat para telas novas; ele é legado até a migração.
+- **Don't** usar `window.confirm` nem modal próprio sem `<dialog>`.
+- **Don't** adicionar gradiente decorativo, brilho, vidro ou bisel; gradiente só como véu de legibilidade sobre foto ou máscara de transbordo.

diff --git a/PRODUCT.md b/PRODUCT.md
@@ -67,6 +67,15 @@ VTT (mapa), nem para uma ferramenta de ficha.
 ## Brand Commitments
 
 - **Nome provisório.** "RPG Online" vai mudar; não construir identidade em cima dele.
+- **Licença da Comunidade de Ordem Paranormal (v1.0, 28/06/2026)** — https://ordemparanormal.com.br/licenca.
+  Permite vender material em aplicativos, incluindo VTTs. Exige: o aviso literal "Este é um conteúdo não
+  oficial, publicado sob a Licença da Comunidade de Ordem Paranormal" e o selo da licença (≥10% da largura
+  da "capa", 100% de opacidade; kit no Drive oficial). Proíbe: imagens e textos dos livros, logos e
+  identidade visual oficiais, nomes próprios do cânone (personagens, lugares, eventos, entidades,
+  organizações — salvo Ordo Realitas; ex.: Arthur, Dante, Santo Berço, Desconjuração), material gerado
+  por IA em conteúdo comercial, sugerir parceria/endosso, e vender ou compartilhar dados pessoais (LGPD).
+  Termos de regra (atributos, NEX, Sanidade, classes, trilhas, os cinco Elementos) são permitidos.
+  Dados de demonstração (screenshots, exemplos) também seguem isso: nada de nomes do cânone.
 - **Ferramenta de fã, sem vínculo oficial** com a Jambô ou com os criadores de Ordem Paranormal. Não pode
   usar logo, arte, ilustrações ou qualquer elemento que faça parecer produto oficial. Estrutura de regras e
   nomes de mecânicas (NEX, Sanidade, elementos) podem aparecer; arte protegida, não.

diff --git a/CLAUDE.md b/CLAUDE.md
@@ -275,6 +275,7 @@ Escolhida via `/impeccable shape` para tirar o frontend do visual genérico (zin
 - Cada mesa é um caso num arquivo escuro: pastas kraft com aba (sistema), etiqueta com o nome, data datilografada, **carimbo** com o papel. Folhas de papel para formulários.
 - Vermelho de carimbo **só para estado** (papel, erro, acesso negado) — nunca ação. Courier Prime só para valor digitado e data; Archivo condensado para títulos, rótulos e botões.
 - **Nada da identidade oficial de Ordem Paranormal** (sigilos, símbolos, arte) — é ferramenta de fã.
+- **Licença da Comunidade de Ordem Paranormal (v1.0, 28/06/2026)** rege o produto — resumo e exigências em `PRODUCT.md` → Brand Commitments. Em código: nunca usar arte/texto oficial nem nomes próprios do cânone (inclusive em seeds, testes e screenshots); o aviso literal + selo precisam aparecer no site (pendente — a landing é o lugar).
 - **Migração parcial:** hoje só login, cadastro, lista de mesas, convite, 404 e checagem de sessão usam o novo mundo (`components/ui/arquivo.tsx` + `estilosArquivo.ts`, raiz `.mundo-arquivo`). **A mesa ainda usa zinc/violeta** (`ui/estilos.ts`) e migra numa próxima etapa.
 - `GET /salas` passou a devolver `papel` (o do próprio usuário em cada sala) para o carimbo.
 

diff --git a/README.md b/README.md
@@ -38,7 +38,7 @@ Cada mesa escolhe, na criação, entre as duas edições do jogo: **Ordem Parano
 <table>
   <tr>
     <td width="50%"><img src="docs/screenshots/login.png" alt="Tela de login: uma pasta aberta com a folha de acesso"></td>
-    <td width="50%"><img src="docs/screenshots/mesa.png" alt="Mesa: mapa ao centro, vídeo no topo, ficha com atributos e barras de Vida, Sanidade e Esforço à direita"></td>
+    <td width="50%"><img src="docs/screenshots/mesa.jpg" alt="Mesa em combate: planta de um casarão com tokens, ficha à direita e a régua de turno embaixo"></td>
   </tr>
   <tr>
     <td align="center">Login</td>
